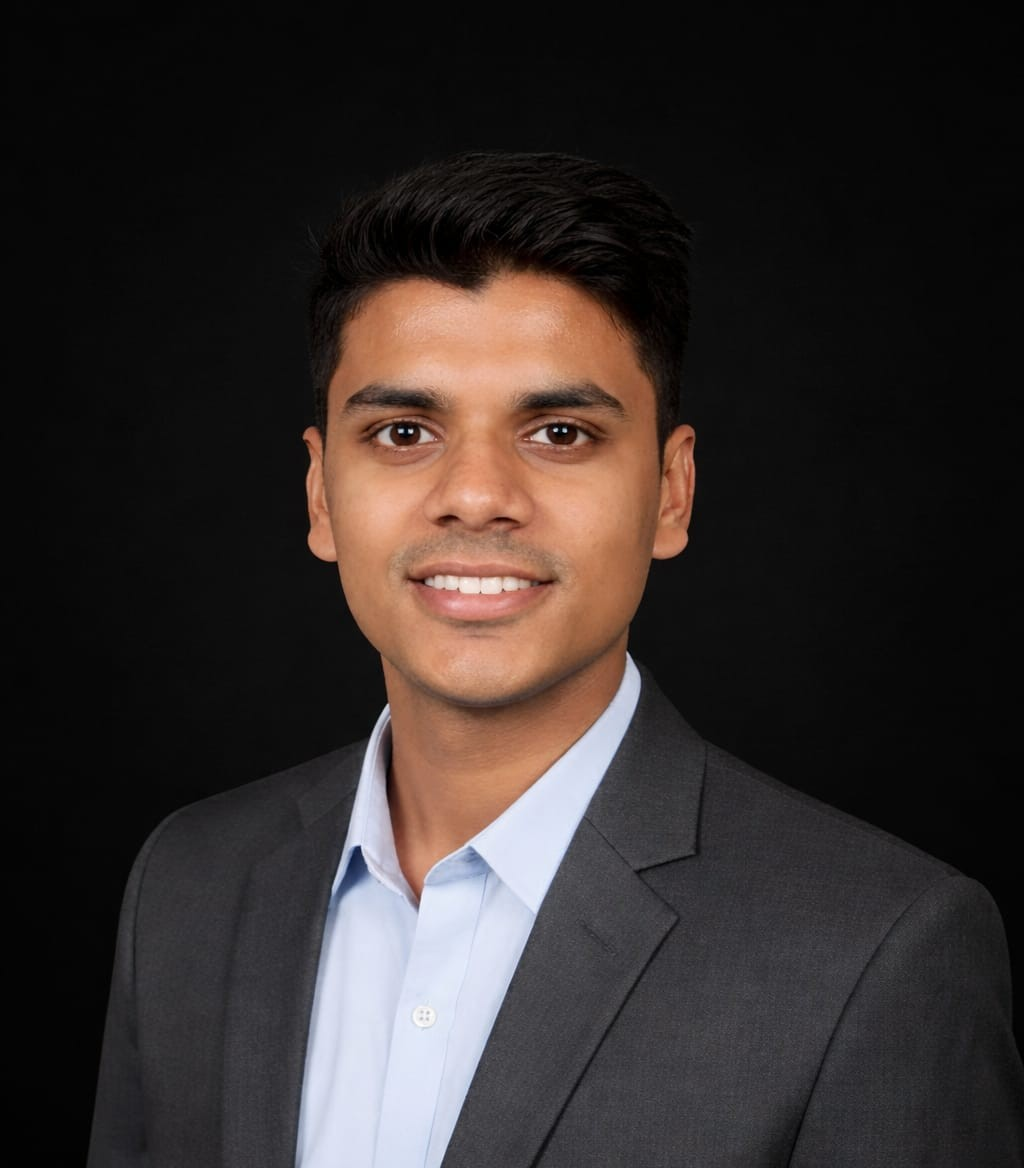
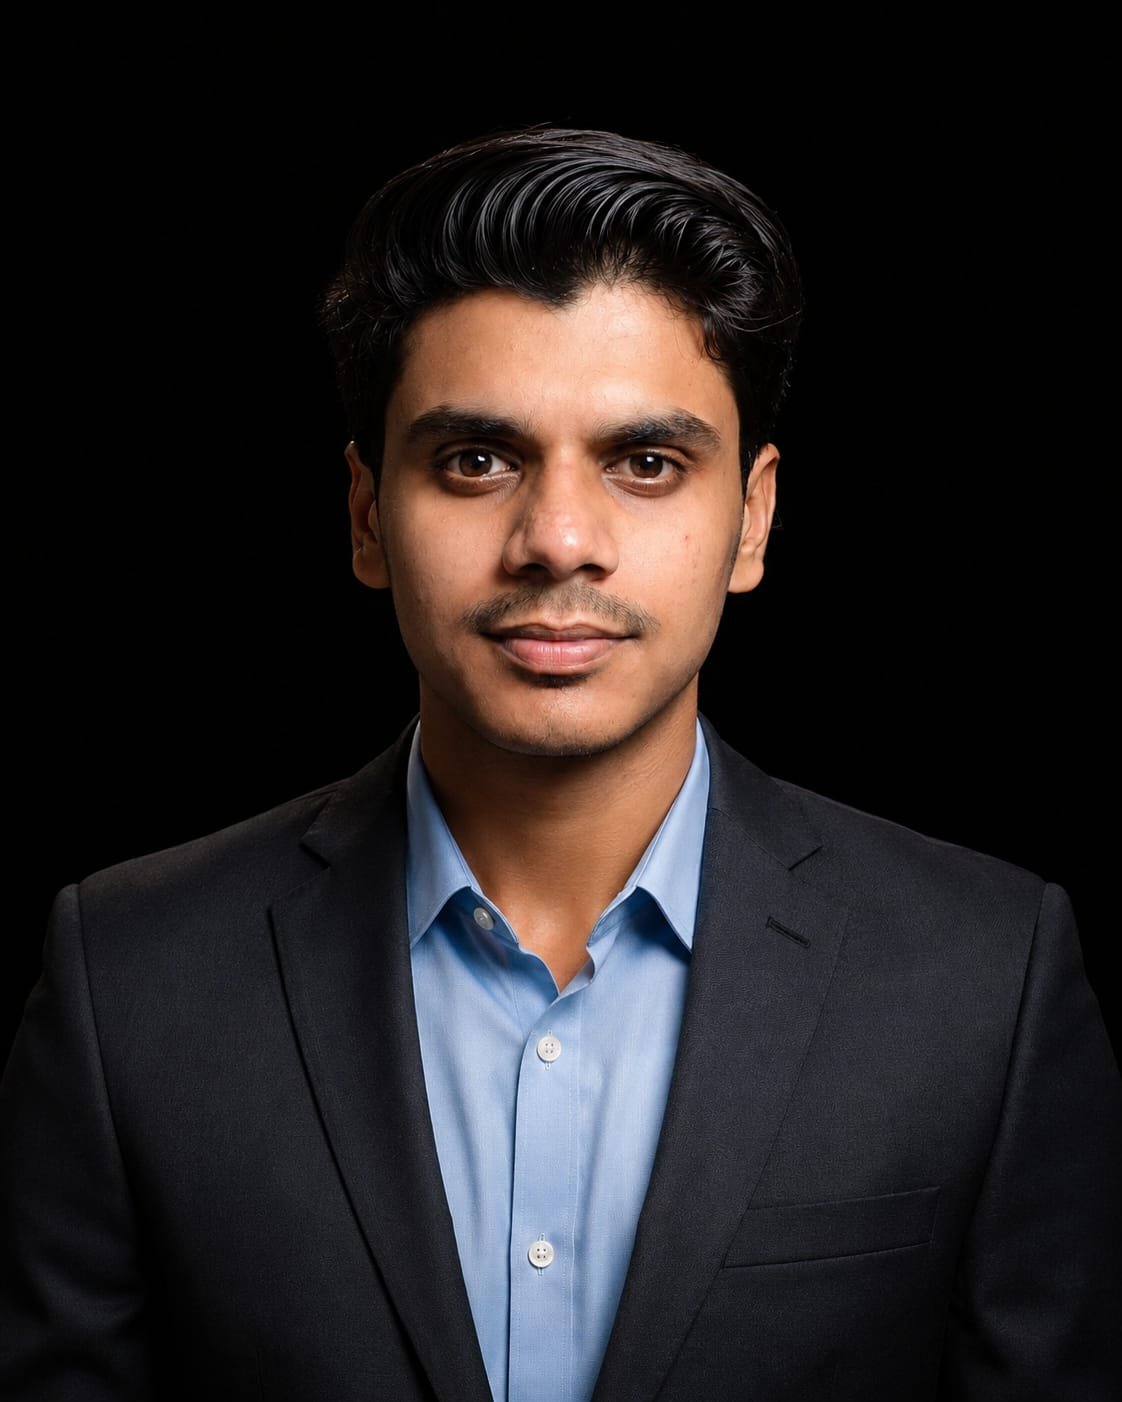
feat: update team order and nehil photo

diff --git a/lib/team.ts b/lib/team.ts
@@ -35,7 +35,7 @@ export const team: TeamMember[] = [
   },
   {
     name: "Nehil Khare",
-    role: "Content Research Analyst",
+    role: "Content Execution Lead",
     photo: "/images/team/nehil.jpeg",
     socials: { instagram: "https://www.instagram.com/nehil_khare_/" },
   },
@@ -53,7 +53,7 @@ export const team: TeamMember[] = [
   },
   {
     name: "MO Arfaj",
-    role: "Content Execution Lead",
+    role: "Content Execution Lead (LinkedIN and X)",
     photo: "/images/team/arfaj.webp",
     socials: { linkedin: "https://www.linkedin.com/in/mo-arfaj-779527380/" },
   },